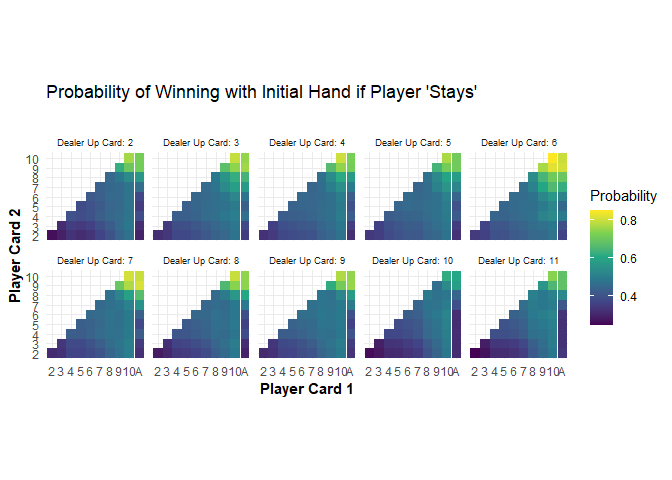
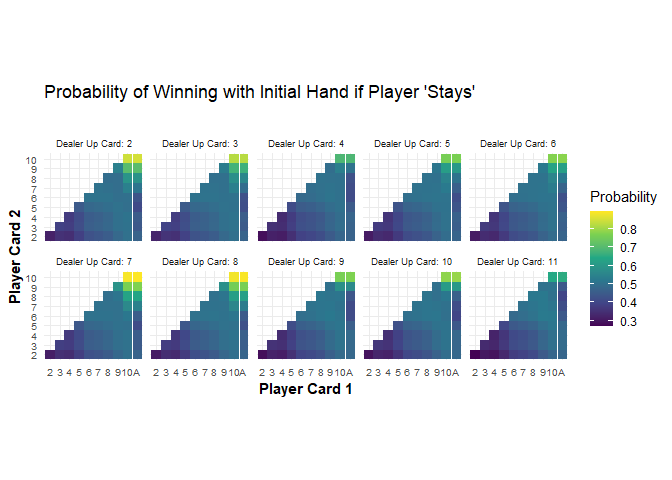
Bug fix, expanded the README
I found an error in the code where the dealer would continue to hit even after beating the player's hand. This increased the rate of type 1 outcomes and inflated the observed player win rate.

diff --git a/ai/training _blackjack_model.py b/ai/training _blackjack_model.py
@@ -69,7 +69,7 @@ def create_online_model(n_neurons: int = 32, verbose: bool=False, save_graph: bo
     batch_norm_1 = ActivityRegularization(l2=0.001)(dense_1)
     dense_2 = Dense(n_neurons, activation='elu',
                   kernel_initializer="he_uniform",
-                  bias_initializer=initializers.RandomNormal()
+                  bias_initializer=initializers.RandomNormal()00
                   )(batch_norm_1)
     batch_norm_2 = ActivityRegularization(l2=0.001)(dense_2)
     outputs = Dense(4, activation='softmax',
@@ -84,7 +84,7 @@ def create_online_model(n_neurons: int = 32, verbose: bool=False, save_graph: bo
     return model
 
 
-def run_simulation(online_model: tf.keras.Model, target_model: tf.keras.Model, deck: tuple):
+def run_simulation(online_model: tf.keras.Model, target_model: tf.keras.Model, deck: tuple) -> int:
     """
     This function runs a single instance of a game of 21.
     :param model: the "online" model that is trained on the outcome of each game.
@@ -201,6 +201,7 @@ loaded_model.load_weights("ai/models/online_model.h5")
 print("Loaded model from disk")
 loaded_model.compile(optimizer=Adam(lr=0.001), loss="categorical_crossentropy")
 
+
 result = []  # Save outcome of each round to container
 n_iter = 10000  # Number of games to simulate
 deck_of_cards = (1, 2, 3, 4, 5, 6, 7, 8, 9, 10, 10, 10, 10, 11)
@@ -211,4 +212,4 @@ for ite in range(0, n_iter):
 unique, counts = np.unique(result, return_counts=True)
 total_wins = counts[0:2].sum()
 print(f"The AI won {total_wins} out of {n_iter} rounds ({round(100*total_wins/n_iter,1)}%).")
-'The AI won 4063 out of 10000 rounds (40.6%).'
+'The AI won 1850 out of 5000 rounds (40.6%).'

diff --git a/ai/README.md b/ai/README.md
@@ -1,4 +1,4 @@
-Creating a Blackjack AI with Keras & Reinforcement Learning
+Creating a Blackjack AI with Reinforcement Learning, Python, and Keras
 ================
 
 ## Introduction
@@ -319,14 +319,13 @@ requires more examples to train on than other machine learning
 approaches, but the data can typically be generated easily by
 simluation. The process may just take a while.
 
-The model used is a deep neural network with a user-selected (but
-constant) number of neurons and 2 hidden layers. The output of the model
-uses a softmax activation function over a dense layer with 4 neurons,
-one for each type of outcome in the game (at least as conceived of
-here). The `Adam` optimization algorithm with the learning rate
-hyperparameter set to 0.001 is used here for backpropagation. Weight
-decay regularization (L2=0.001) is also applied to the outputs of each
-`Dense`
+The model used is a deep neural network with a user-selected number of
+neurons and 2 hidden layers. The output of the model uses a softmax
+activation function over a dense layer with 4 neurons, one for each type
+of outcome in the game (at least as conceived of here). The `Adam`
+optimization algorithm with the learning rate hyperparameter set to
+0.001 is used here for backpropagation. Weight decay regularization
+(L2=0.01) is also applied to the outputs of each `Dense`
 layer.
 
 ``` python
@@ -338,13 +337,13 @@ def create_online_model(n_neurons: int = 32, verbose: bool=True, save_graph: boo
     """
     inputs = Input(shape=(22,))
     dense_1 = Dense(n_neurons,
-                  activity_regularizer=regularlizers.l2(0.001),
+                  activity_regularizer=regularlizers.l2(0.01),
                   activation='elu',
                   kernel_initializer="he_uniform",
                   bias_initializer=initializers.RandomNormal()
                   )(inputs)
     dense_2 = Dense(n_neurons, activation='elu',
-                  activity_regularizer=regularlizers.l2(0.001),
+                  activity_regularizer=regularlizers.l2(0.01),
                   kernel_initializer="he_uniform",
                   bias_initializer=initializers.RandomNormal()
                   )(dense_1)
@@ -427,23 +426,35 @@ def run_simulation(online_model: tf.keras.Model, target_model: tf.keras.Model, d
                 continue
 ```
 
-Blackjack simulations are run repeatedly so that the outcomes of the
-games and the state of the player and dealer hands are used as the data
-to train the model. I opted to use a technique to fit the model called
-**Deep Q-Learning using fixed Q-value targets**, which can improve the
-speed of learning and improve estimates of the model parameters during
-training. This technique involves actually creating two separate machine
-learning models: an “online model” and a “target model”. The target
-model is used by the AI to predict the outcomes of a game given the
-current hand (i.e., the Q-values), but the actual training based on the
-outcome of a round takes place using the online model. After a
-pre-defined number of iterations (e.g., every 50th game), the weights of
-the target model are updated using the weights estimated from the online
-model. The purpose of this approach is to avoid instabilities that can
-arise during reinforcement learning, which can ultimately lead to poor
-optimization gradients such that the backpropagation algorithm is unable
-to effectively explore the parameter
-space.
+Blackjack simulations are run repeatedly, with the observed outcomes of
+the games used as labels and the state of the player and dealer hands
+serving as the inputs for training the model. For training, I opted to
+borrow methods from Deep Q-Learning by using fixed Q-value targets to
+predict the likelihood of the different possible outcomes. Using fixed
+Q-value targets have been shown to speed up the rate of learning and
+improve estimates of the model parameters during training. This
+technique involves actually creating two separate machine learning
+models: an “online model” and a “target model”. The target model is used
+by the AI to predict the outcomes of a game given the current hand
+(i.e., the Q-values), but the actual training based on the outcome of
+each round takes place using the online model. After a pre-defined
+number of iterations (e.g., every 50th game), the weights of the target
+model are updated using the weights estimated from the online model. The
+purpose of this approach is to avoid instabilities that can arise during
+reinforcement learning, which can ultimately lead to poor optimization
+gradients such that the backpropagation algorithm is unable to
+effectively explore the parameter space.
+
+The framework used here is very similar to approaches like proper Deep
+Q-Learning, but differs in two import respects. First, the
+decision-making model is updated each round using a labeled
+(categorical) outcome with categorical cross-entropy loss function. True
+Q-learning instead involves training a network based on the outcome of a
+continuous reward function (e.g., Huber loss) based on the . Second,
+there is no “replay buffer” or limited cache of prior gameplay
+experiences for the model to call upon. The model used here is updated
+after each round, with no memory
+limitation.
 
 ``` python
 def run_simulations(n_train: int, n_update: int = 100, n_report: int = 500):
@@ -507,12 +518,15 @@ loaded_model.load_weights("ai/models/online_model.h5")
 print("Loaded model from disk")
 ```
 
-The obvious first test to was to examine the winning rate of the AI,
-which seemed to perform well:
+## Exploring the Results
+
+The obvious first test to was to examine the winning rate of the AI.
+Using the `run_simulation` function created earlier, I simulated 5000
+rounds of Blackjack using the target values from the trained ML model:
 
 ``` python
 result = []  # Save outcome of each round to container
-n_iter = 1000  # Number of games to simulate
+n_iter = 5000  # Number of games to simulate
 deck_of_cards = (1, 2, 3, 4, 5, 6, 7, 8, 9, 10, 10, 10, 10, 11)
 for ite in range(0, n_iter):
     np.random.seed(2 * ite)  # For reproducability
@@ -521,27 +535,37 @@ for ite in range(0, n_iter):
 unique, counts = np.unique(result, return_counts=True)
 total_wins = counts[0:2].sum()
 print(f"The AI won {total_wins} out of {n_iter} rounds ({round(100*total_wins/n_iter,1)}%).")
-The AI won 406 out of 1000 rounds (40.6%).
+The AI won 1804 out of 5000 rounds (36.1%).
 ```
 
 }
 
-A winning rate of approximately 40% seems reasonably good, particularly
-given the strong influence that the laws of probability have on the
-outcomes of each round.
+A winning rate of approximately 36% seems reasonably good, especially
+when considering the strong influence that the laws of probability have
+on the outcomes of each round. But, I will continue exploring other
+model fitting techniques to try and improve this number.
 
 I also wanted to get a sense of how the results of the neural network
-could guide player expectations, given their current hand. In the follow
-figure, I plot the predicted probability that a player should elect to
-stay with their current hand, given the cards they were initially dealt
-and the up card shown by the dealer (compare to the first figure above).
-The figure makes intuitive sense given what most people know about the
-game of Blackjack: The lower your initial cards, the less likely you are
-to win, and that the probability of winning with a low hand value
-decreases with the value of the dealer’s up card. However, viewing the
-raw probabilities also reveals a large region of the card space where
-the predicted probabilities of outcome(s) are equivocal and difficult to
-interpret:
+could guide player’s decisions, given their current hand, similar to the
+chart featured in the first figure. Therefore, I plotted the predicted
+probability that a player will win a round should they elect to ‘stay’,
+based on the cards they were initially dealt and the up card shown by
+the dealer. The figure makes intuitive sense given what most people know
+about the game of Blackjack: the lower the value of your initial cards,
+the less likely you are to win the round. Furthermore, the probability
+of winning with a low hand value decreases with larger values of the
+dealer’s up card. The results also suggest that the penalty for a bad
+‘hit’ is lower with a *soft hand* (i.e., a hand with an Ace) because
+of tthis card can take a value of 1 if needed. As a result, the model
+shows that players are typically better off hitting with a soft hand
+rather than a hard hand due to the lower risk of going bust. This, of
+course, makes intuitive sense, but it is nonetheless still fascinating
+to see that the model learned that aspect of the game.
+
+Viewing the continuous probabilities, however, also reveals a large
+region of the card space where the “best” action is predicted to be only
+slightly better than the alternative. In these cases, chance will
+largely determine whether an action produces the desired outcome.
 
 ``` r
 library(tidyr)
@@ -574,27 +598,28 @@ pc
 
 ![](figures/plot1.png)
 
-Here I have binned the predicted probabilities, showing initial hand
-card combinations where the model suggests the player should
-definitively ‘hit’ or ‘stay’. These include regions of the card space
-where *Pr(Stay) \> 0.6 OR Pr(Stay) \< 0.4*. An ‘ambiguous hit (A-Hit)’
-and ‘ambiguous stay (A-Stay)’ are regions of the card space suggesting
-either a ‘hit’ or ‘stay’ action respectively, but that also fall within
-plus or minus 5 percentage points of 50%:
+Here I have binned the values predicted by the model, showing starting
+player hand card combinations where the model suggests the player should
+definitively ‘hit’ or ‘stay’. These include those regions of the card
+space where *Pr(Stay) \> 0.6 OR Pr(Stay) \< 0.4*. An ‘ambiguous hit
+(A-Hit)’ and ‘ambiguous stay (A-Stay)’ are those card combinations
+suggesting either a ‘hit’ or ‘stay’ action respectively, but that also
+fall within plus or minus 10 percentage points of 50% (equivalence):
 
 ``` r
 action_class = ifelse(M$action >= 0.6,
                       "Stay",
                       ifelse(
-                        M$action < 0.6 &
-                          M$action >= 0.5,
+                        M$action < 0.6 & M$action >= 0.5,
                         "A-Stay",
-                        ifelse(M$action < 0.5 & M$action >= 0.4, "A-Hit", "Hit")
-                      ))
+                        ifelse(M$action < 0.5 & M$action >= 0.4, 
+                          "A-Hit", "Hit")
+                        )
+                      )
 action_class = factor(action_class, c("Hit","A-Hit","A-Stay","Stay"))
 pd = ggplot(M[M$action>0,], aes(x=factor(pc1), y=factor(pc2), fill=action_class[M$action>0])) + 
   ggtitle("Best Predicted Action for Initial Hand", 
-          "Predicted probabilities are derived from the trained neural network") +
+          "Predictions are derived from the trained neural network") +
   geom_tile() +
   scale_fill_viridis_d("Action", begin=0.2, end=0.8) +
   facet_wrap(.~duc, nrow=2, ncol=5) +
@@ -607,3 +632,19 @@ pd
 ```
 
 ![](figures/plot2.png)
+
+## Future Directions
+
+The game-playing AI shown here uses a machine learning model to decide
+the best action (‘hit’ or ‘stay’) given the composition of the current
+hand and the value of the dealer up card. From this simple set of
+decision-making rules, guided by the predictions ML model, the AI wins
+games at a rate of around 37%.
+
+The next step is to incorporate the AI into the `simple_blackjack`
+module found in the other directory of this repo. The purpose of this
+will be to provide a “suggestion” feature to players. This feature will
+report the best predicted choice of action (“Hit”, “A-Hit”, etc.) but
+leave the final decision to the player. From there, I hope to record how
+my performance (and hopefully, others) at Blackjack changes when
+assisted by the AI.
